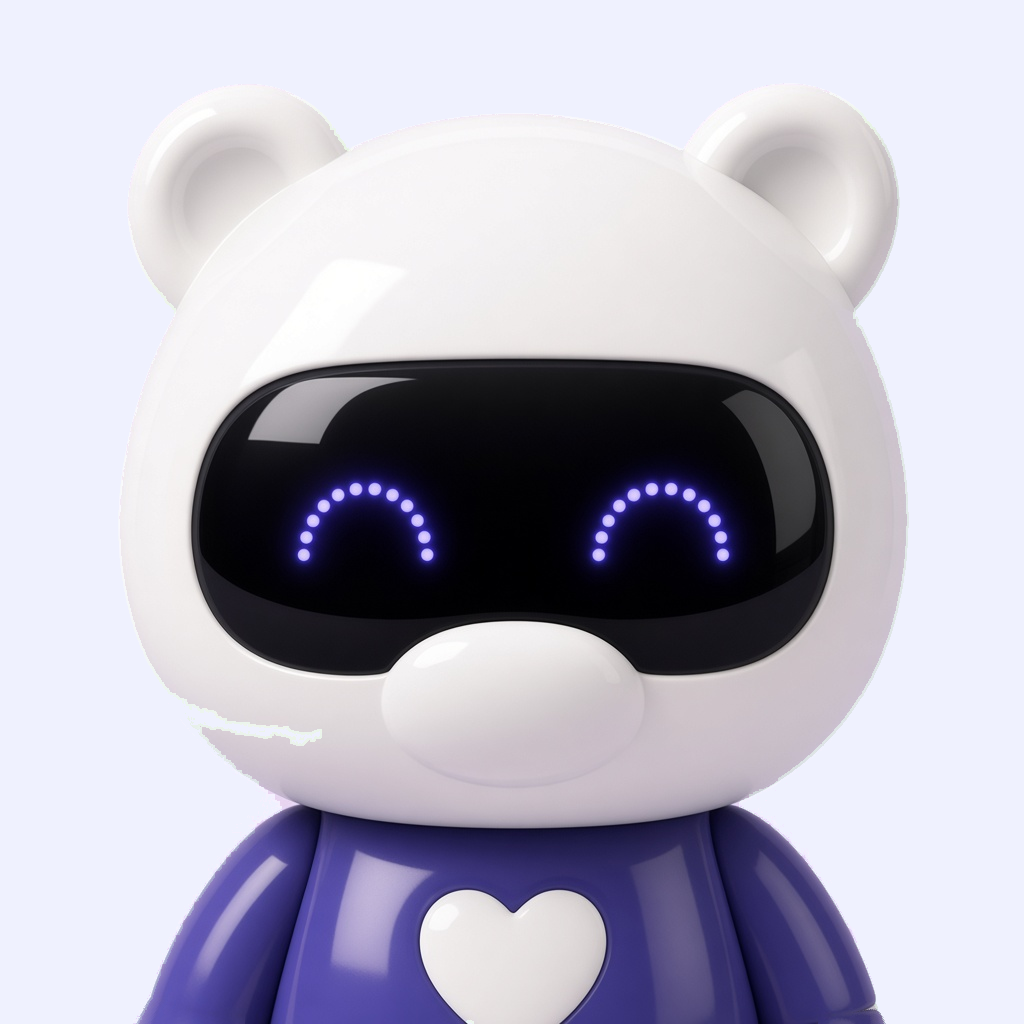
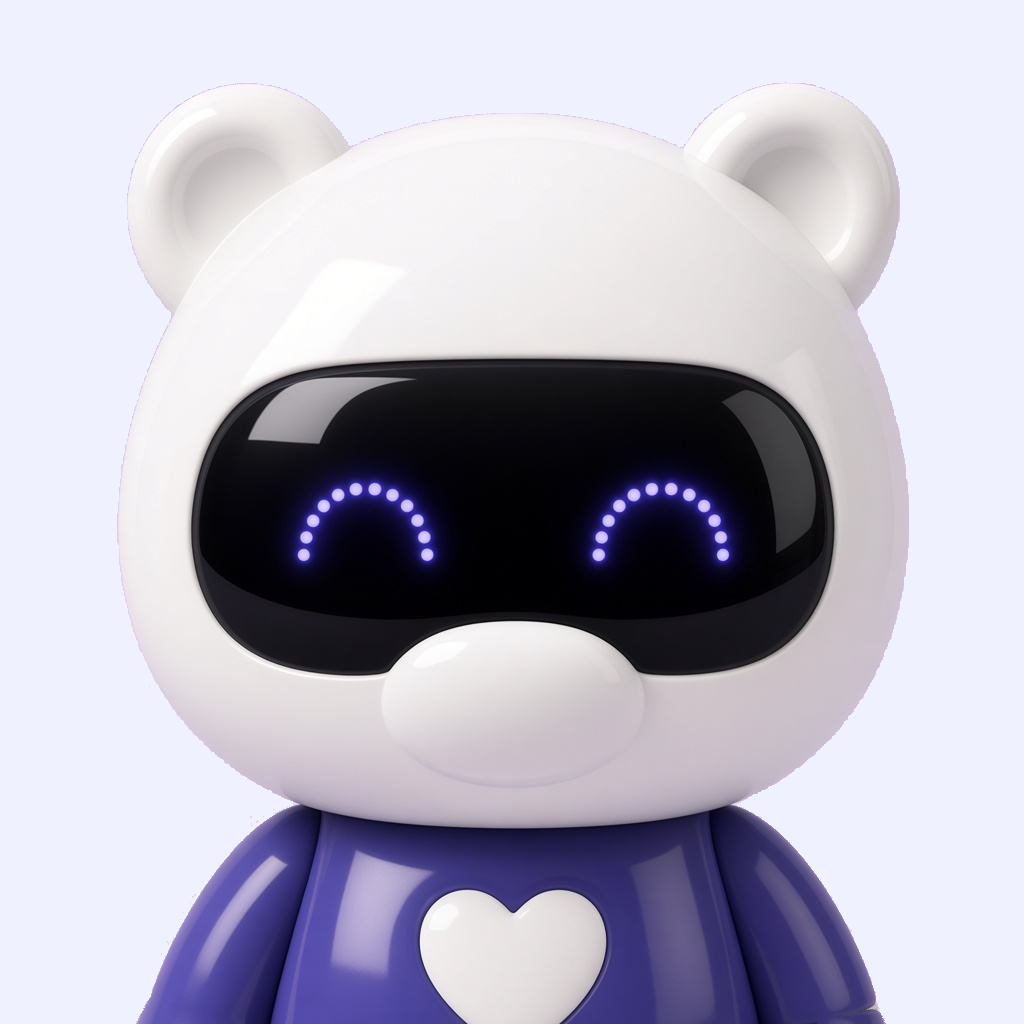
fix(app): repaint lavender without eating the cheek
The flood treated gray cheek pixels within 16 of #dac4e8 as background and recolored two pixels inward. Fill only the border-connected lavender field and copy every other pixel unchanged.

diff --git a/tooling/rebackground.test.ts b/tooling/rebackground.test.ts
@@ -5,15 +5,17 @@ import { expect, it } from "vitest";
 
 const root = path.resolve(path.dirname(fileURLToPath(import.meta.url)), "..");
 
-it("keeps subject pixels outside the lavender edge", () => {
+it("keeps non-background pixels equal to the original, within 2 levels only on the outline", () => {
   const result = spawnSync(process.execPath, ["tooling/rebackground.mjs", "--check"], {
     cwd: root,
     encoding: "utf8",
   });
-  const lines = (result.stdout ?? "").split("\n").filter((line) => line.includes(" clips "));
-  expect(result.status, result.stdout ?? result.stderr ?? "").toBe(0);
+  const output = result.stdout ?? "";
+  const lines = output.split("\n").filter((line) => line.includes("changed non-bg"));
+  expect(output).toContain("outline tolerance 2");
+  expect(result.status, output || result.stderr || "").toBe(0);
   expect(lines.length).toBeGreaterThan(10);
   for (const line of lines) {
-    expect(line).toContain(" clips 0");
+    expect(line).toContain("changed non-bg 0");
   }
 });
